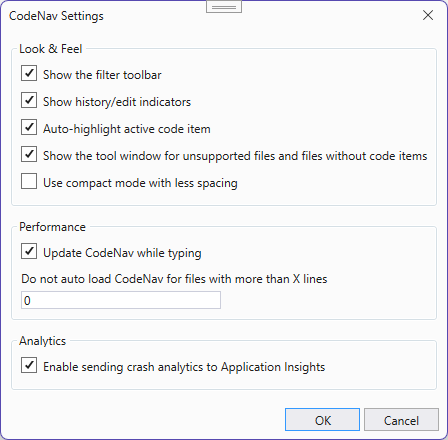
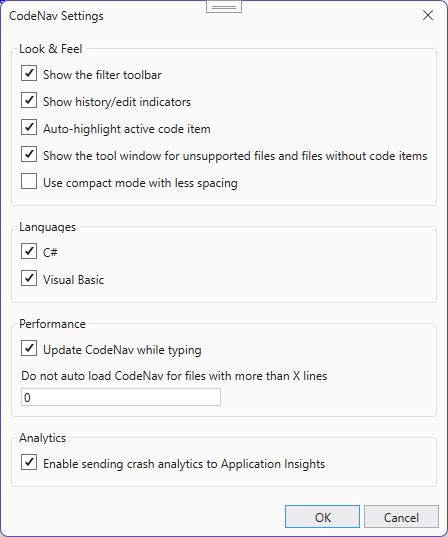
fix: Fix settings dialog requiring a c# file to open

diff --git a/src/CodeNav.OutOfProc/Services/CodeDocumentService.cs b/src/CodeNav.OutOfProc/Services/CodeDocumentService.cs
@@ -13,21 +13,37 @@ using VisualBasicDocumentMapper = CodeNav.OutOfProc.Languages.VisualBasic.Mapper
 
 namespace CodeNav.OutOfProc.Services;
 
-public class CodeDocumentService(
-    OutputWindowService logService,
-    OutliningService outliningService,
-    WindowFrameService windowFrameService)
+public class CodeDocumentService
 {
+    private readonly OutputWindowService logService;
+    private readonly OutliningService outliningService;
+    private readonly WindowFrameService windowFrameService;
+
     private readonly List<IDocumentMapper> documentMappers =
     [
         new CSharpDocumentMapper(),
         new VisualBasicDocumentMapper(),
     ];
 
+    public CodeDocumentService(
+        OutputWindowService logService,
+        OutliningService outliningService,
+        WindowFrameService windowFrameService)
+    {
+        this.logService = logService;
+        this.outliningService = outliningService;
+        this.windowFrameService = windowFrameService;
+
+        CodeDocumentViewModel = new CodeDocumentViewModel
+        {
+            CodeDocumentService = this,
+        };
+    }
+
     /// <summary>
     /// DataContext for the tool window.
     /// </summary>
-    public CodeDocumentViewModel CodeDocumentViewModel { get; set; } = new();
+    public CodeDocumentViewModel CodeDocumentViewModel { get; set; }
 
     /// <summary>
     /// DataContext for the settings dialog.
@@ -108,7 +124,6 @@ public class CodeDocumentService(
             await loadingCancellationTokenSource.CancelAsync();
 
             // Set properties on the CodeDocumentViewModel that are needed for other features
-            CodeDocumentViewModel.CodeDocumentService = this;
             CodeDocumentViewModel.FilePath = filePath ?? string.Empty;
 
             if (!codeItems.Any())

diff --git a/src/CodeNav.OutOfProc/ExtensionEntrypoint.cs b/src/CodeNav.OutOfProc/ExtensionEntrypoint.cs
@@ -19,7 +19,7 @@ internal class ExtensionEntrypoint : Extension
             publisherName: "Samir Boulema",
             displayName: "CodeNav",
             description: "Show the code structure of your current document."),
-        LoadedWhen = ActivationConstraint.ClientContext(ClientContextKey.Shell.ActiveEditorContentType, "csharp"),
+        LoadedWhen = ActivationConstraint.ClientContext(ClientContextKey.Shell.ActiveEditorContentType, "CSharp|Basic"),
     };
 
     /// <inheritdoc />

diff --git a/docs/settings.md b/docs/settings.md
@@ -2,6 +2,8 @@
 
 ![Settings](../art/Settings.png)
 
+## Look & Feel
+
 **Show the filter toolbar**
 
 Enable or disable the filter toolbar in the CodeNav window
@@ -22,6 +24,18 @@ Enable or disable showing the CodeNav tool window for unsupported files and file
 
 Enable or disable showing items in a condensed form with less vertical spacing optimizing screen real estate
 
+## Languages
+
+**C#**
+
+Enable or disable support for C# code items in CodeNav
+
+**Visual Basic**
+
+Enable or disable support for Visual Basic code items in CodeNav
+
+## Performance
+
 **Update CodeNav while typing**
 
 Enable of disable updating the list of code items in CodeNav while typing in the text editor
@@ -29,6 +43,8 @@ Enable of disable updating the list of code items in CodeNav while typing in the
 **Do not auto load CodeNav for files with more than X lines**
 
 Disable loading the list of code items in CodeNav for files with more lines than the threshold value
+
+## Analytics
 
 **Enable sending crash analytics to Application Insights**
 

diff --git a/docs/version10.md b/docs/version10.md
@@ -18,6 +18,5 @@ Last but not least everything is written with async programming in mind.
 - Visual studio 2017, 2019 support
 
 ## Languages dropped in v10
-- Visual Basic
 - JavaScript
 - CSS
